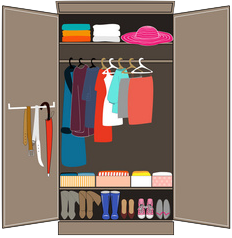
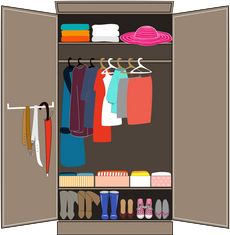
衣櫃物品位置喬好

diff --git a/cm-project/src/views/Room.vue b/cm-project/src/views/Room.vue
@@ -64,7 +64,12 @@
           />
         </div>
         <!-- 衣櫃彈窗 -->
-        <Wardrobe class="wardrobe" v-if="showWardrobe" @leave="closeWardrobe" />
+        <Wardrobe
+          class="wardrobe"
+          v-if="showWardrobe"
+          @leave="closeWardrobe"
+          @choose="updateData"
+        />
         <div v-if="bedSrc" class="bedImgBox">
           <img
             class="bedImg img-resp"
@@ -324,10 +329,6 @@ export default {
         {
           itemIndex: 8,
           src: "../../static/imgs/room/deskColor/desk_8.png"
-        },
-        {
-          itemIndex: 9,
-          src: "../../static/imgs/room/deskColor/desk_9.png"
         }
       ],
       closetArr: [
@@ -353,7 +354,7 @@ export default {
         },
         {
           itemIndex: 6,
-          src: "../../static/imgs/room/closetColor/closet_6.jpeg"
+          src: "../../static/imgs/room/closetColor/closet_6.png"
         },
         {
           itemIndex: 7,
@@ -505,6 +506,25 @@ export default {
         this.photo3 = res1.data.photo3;
         this.isEnvelope = res1.data.hasNewMail;
       });
+    },
+    updateData() {
+      this.roomId = this.$route.query.id;
+      // 取得房間資訊
+      getRoomInfo(this.roomId, this.$store.getters.userSeriel).then(res1 => {
+        this.isOwner = res1.data.isOwner;
+        console.log(res1.data.isOwner);
+        this.photo1 = res1.data.photo1;
+        this.photo2 = res1.data.photo2;
+        this.photo3 = res1.data.photo3;
+        this.isEnvelope = res1.data.hasNewMail;
+        this.bedSrc = res1.data.bed;
+        this.diarySrc = res1.data.diary;
+        this.bookcaseSrc = res1.data.bookShelf;
+        this.deskSrc = res1.data.desk;
+        this.closetSrc = res1.data.closet;
+        this.colorType = res1.data.colorType;
+        this.decoSrc = res1.data.deco;
+      });
     }
   }
 };
@@ -538,11 +558,20 @@ export default {
   position: absolute;
   max-width: 18%;
   width: 18%;
+  height: 47.5%;
   left: 24%;
   top: 28%;
+  display: flex;
+  /* background-color: blue; */
 }
 .wardrobeImg {
-  width: 100%;
+  vertical-align: bottom;
+  /* display: inline-block; */
+  /* flex-direction: column-reverse; */
+  /* width: 100%; */
+  /* height: 100%; */
+  /* object-fit: contain; */
+  /* background-color: rgb(111, 111, 235); */
 }
 .wardrobeImg:hover {
   opacity: 0.5;
@@ -551,12 +580,16 @@ export default {
 .bookcaseImgBox {
   position: absolute;
   max-width: 10%;
-  width: 10%;
+  width: 11%;
+  height: 31.5%;
   left: 45.5%;
   top: 44%;
+  display: flex;
+  /* background-color: cornflowerblue; */
 }
 .bookcaseImg {
-  width: 100%;
+  /* width: 100%; */
+  vertical-align: bottom;
 }
 .bookcaseImg:hover {
   opacity: 0.5;
@@ -566,8 +599,10 @@ export default {
   position: absolute;
   max-width: 10%;
   width: 10%;
-  left: 44%;
-  top: 81%;
+  height: 17%;
+  left: 50%;
+  top: 79%;
+  display: flex;
 }
 .diaryImg {
   width: 100%;
@@ -580,8 +615,11 @@ export default {
   position: absolute;
   max-width: 20%;
   width: 20%;
+  height: 41%;
   left: 58.5%;
-  top: 36%;
+  top: 42%;
+  display: flex;
+  /* background-color: rgb(31, 91, 202); */
 }
 .computerDeskImg {
   width: 100%;
@@ -652,10 +690,11 @@ export default {
 .photoThree {
   position: absolute;
   transform: rotate(-15deg);
+  transform: rotate(-15deg);
   left: 69.5%;
   top: 33%;
   width: 20.2%;
-  height: 50%;
+  height: 50.5%;
   background-color: gray;
 }
 .photoImgThree {
@@ -666,12 +705,11 @@ export default {
 /* 床 */
 .bedImgBox {
   position: absolute;
-  left: 10%;
-  top: 68%;
-  /* max-width: 20%; */
+  left: 12%;
+  top: 70%;
   width: 22%;
   height: 27%;
-  object-fit: contain;
+  display: flex;
   /* background-color: burlywood; */
 }
 .bedImg {

diff --git a/cm-project/src/components/Wardrobe.vue b/cm-project/src/components/Wardrobe.vue
@@ -26,7 +26,11 @@
           <!-- 右邊標題 -->
           <header class="rightTit">{{ switchItem }}</header>
           <div v-if="arr.length">
-            <Furniture :furnitures="arr" :furnitureItem="switchItem" />
+            <Furniture
+              :furnitures="arr"
+              :furnitureItem="switchItem"
+              @choose="choosed"
+            />
           </div>
         </aside>
         <!-- 關閉視窗按鈕 -->
@@ -106,7 +110,7 @@ export default {
         },
         {
           itemIndex: 6,
-          src: "../../static/imgs/room/closetColor/closet_6.jpeg"
+          src: "../../static/imgs/room/closetColor/closet_6.png"
         },
         {
           itemIndex: 7,
@@ -209,10 +213,6 @@ export default {
         {
           itemIndex: 8,
           src: "../../static/imgs/room/deskColor/desk_8.png"
-        },
-        {
-          itemIndex: 9,
-          src: "../../static/imgs/room/deskColor/desk_9.png"
         }
       ],
       bookcaseArr: [
@@ -333,6 +333,10 @@ export default {
           break;
         // no default
       }
+    },
+    // 已選擇使用
+    choosed() {
+      this.$emit("choose");
     },
     //關閉視窗按鈕
     leave() {

diff --git a/cm-project/src/components/Furniture.vue b/cm-project/src/components/Furniture.vue
@@ -123,6 +123,7 @@ export default {
           break;
         // no default
       }
+      this.$emit("choose");
     },
     // 打更換牆壁api
     useWall() {
